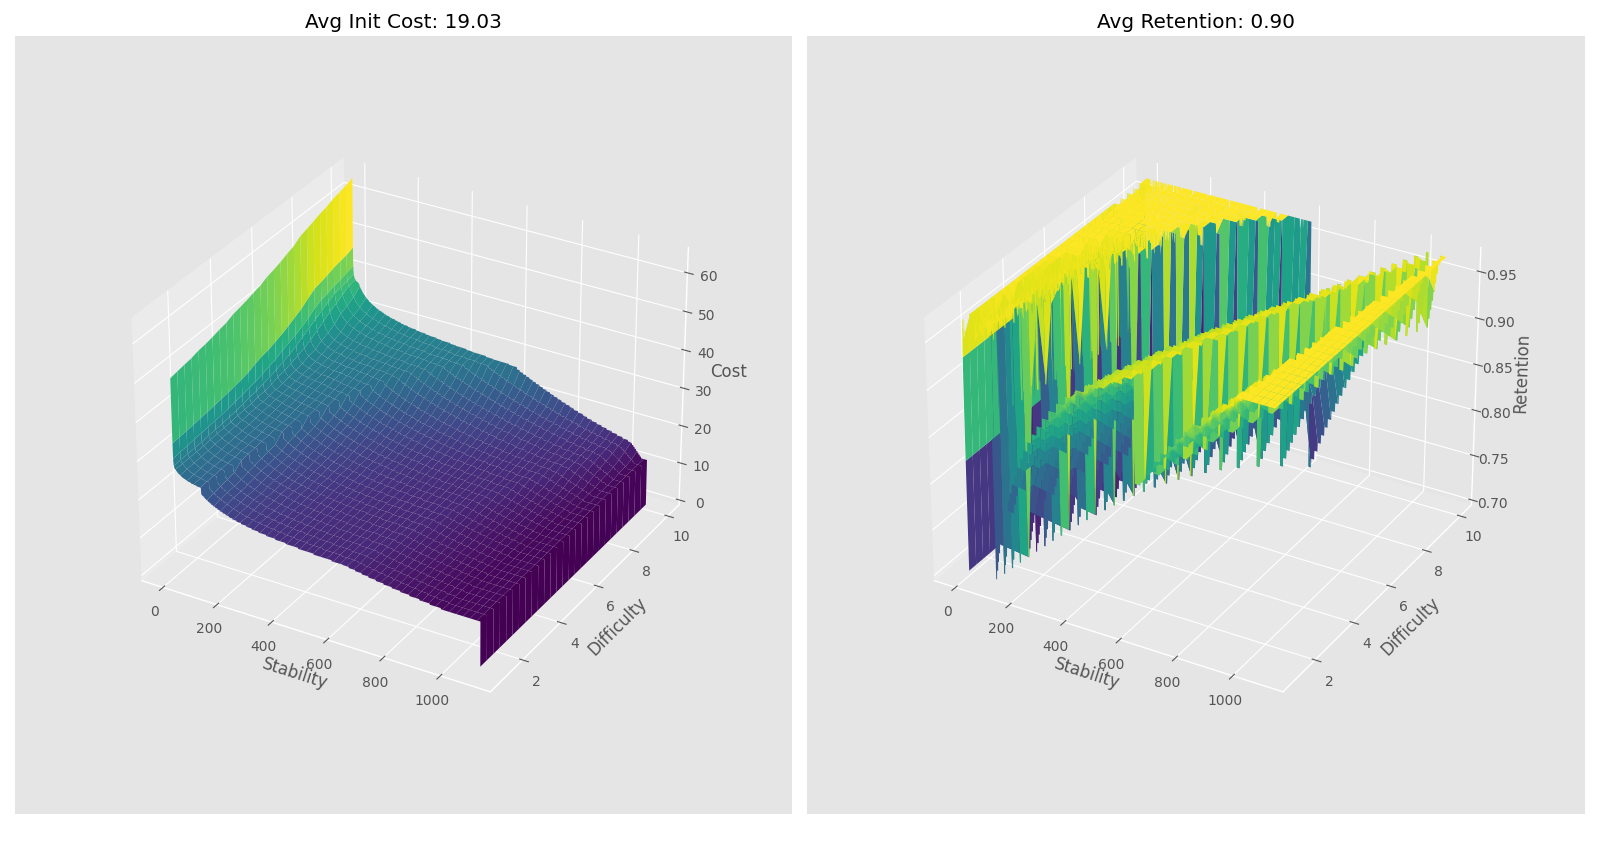
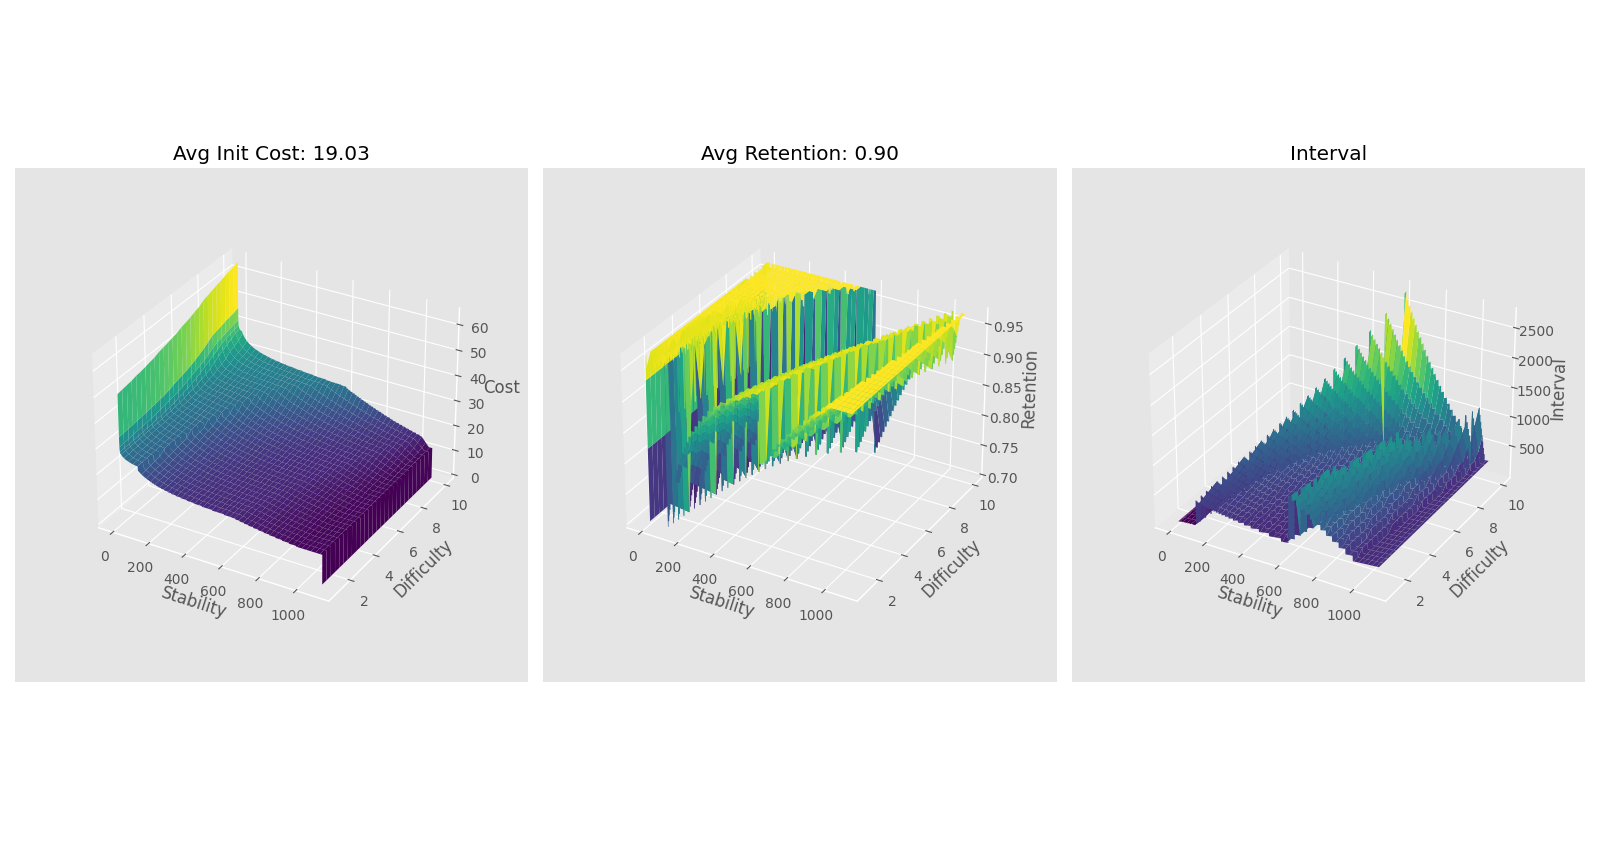
add optimal interval to SSP-MMC.png

diff --git a/script.py b/script.py
@@ -219,19 +219,27 @@ print(f"Average retention: {avg_retention:.2f}")
 
 s_state_mesh_2d, d_state_mesh_2d = np.meshgrid(s_state, d_state)
 fig = plt.figure(figsize=(16, 8.5))
-ax = fig.add_subplot(121, projection="3d")
+ax = fig.add_subplot(131, projection="3d")
 ax.plot_surface(s_state_mesh_2d, d_state_mesh_2d, cost_matrix, cmap="viridis")
 ax.set_xlabel("Stability")
 ax.set_ylabel("Difficulty")
 ax.set_zlabel("Cost")
 ax.set_title(f"Avg Init Cost: {avg_cost:.2f}")
 ax.set_box_aspect(None, zoom=0.8)
-ax = fig.add_subplot(122, projection="3d")
+ax = fig.add_subplot(132, projection="3d")
 ax.plot_surface(s_state_mesh_2d, d_state_mesh_2d, retention_matrix, cmap="viridis")
 ax.set_xlabel("Stability")
 ax.set_ylabel("Difficulty")
 ax.set_zlabel("Retention")
 ax.set_title(f"Avg Retention: {avg_retention:.2f}")
+ax.set_box_aspect(None, zoom=0.8)
+ax = fig.add_subplot(133, projection="3d")
+interval_matrix = next_interval(s_state_mesh_2d, retention_matrix)
+ax.plot_surface(s_state_mesh_2d, d_state_mesh_2d, interval_matrix, cmap="viridis")
+ax.set_xlabel("Stability")
+ax.set_ylabel("Difficulty")
+ax.set_zlabel("Interval")
+ax.set_title("Interval")
 ax.set_box_aspect(None, zoom=0.8)
 plt.tight_layout()
 plt.savefig("./plot/SSP-MMC.png")
